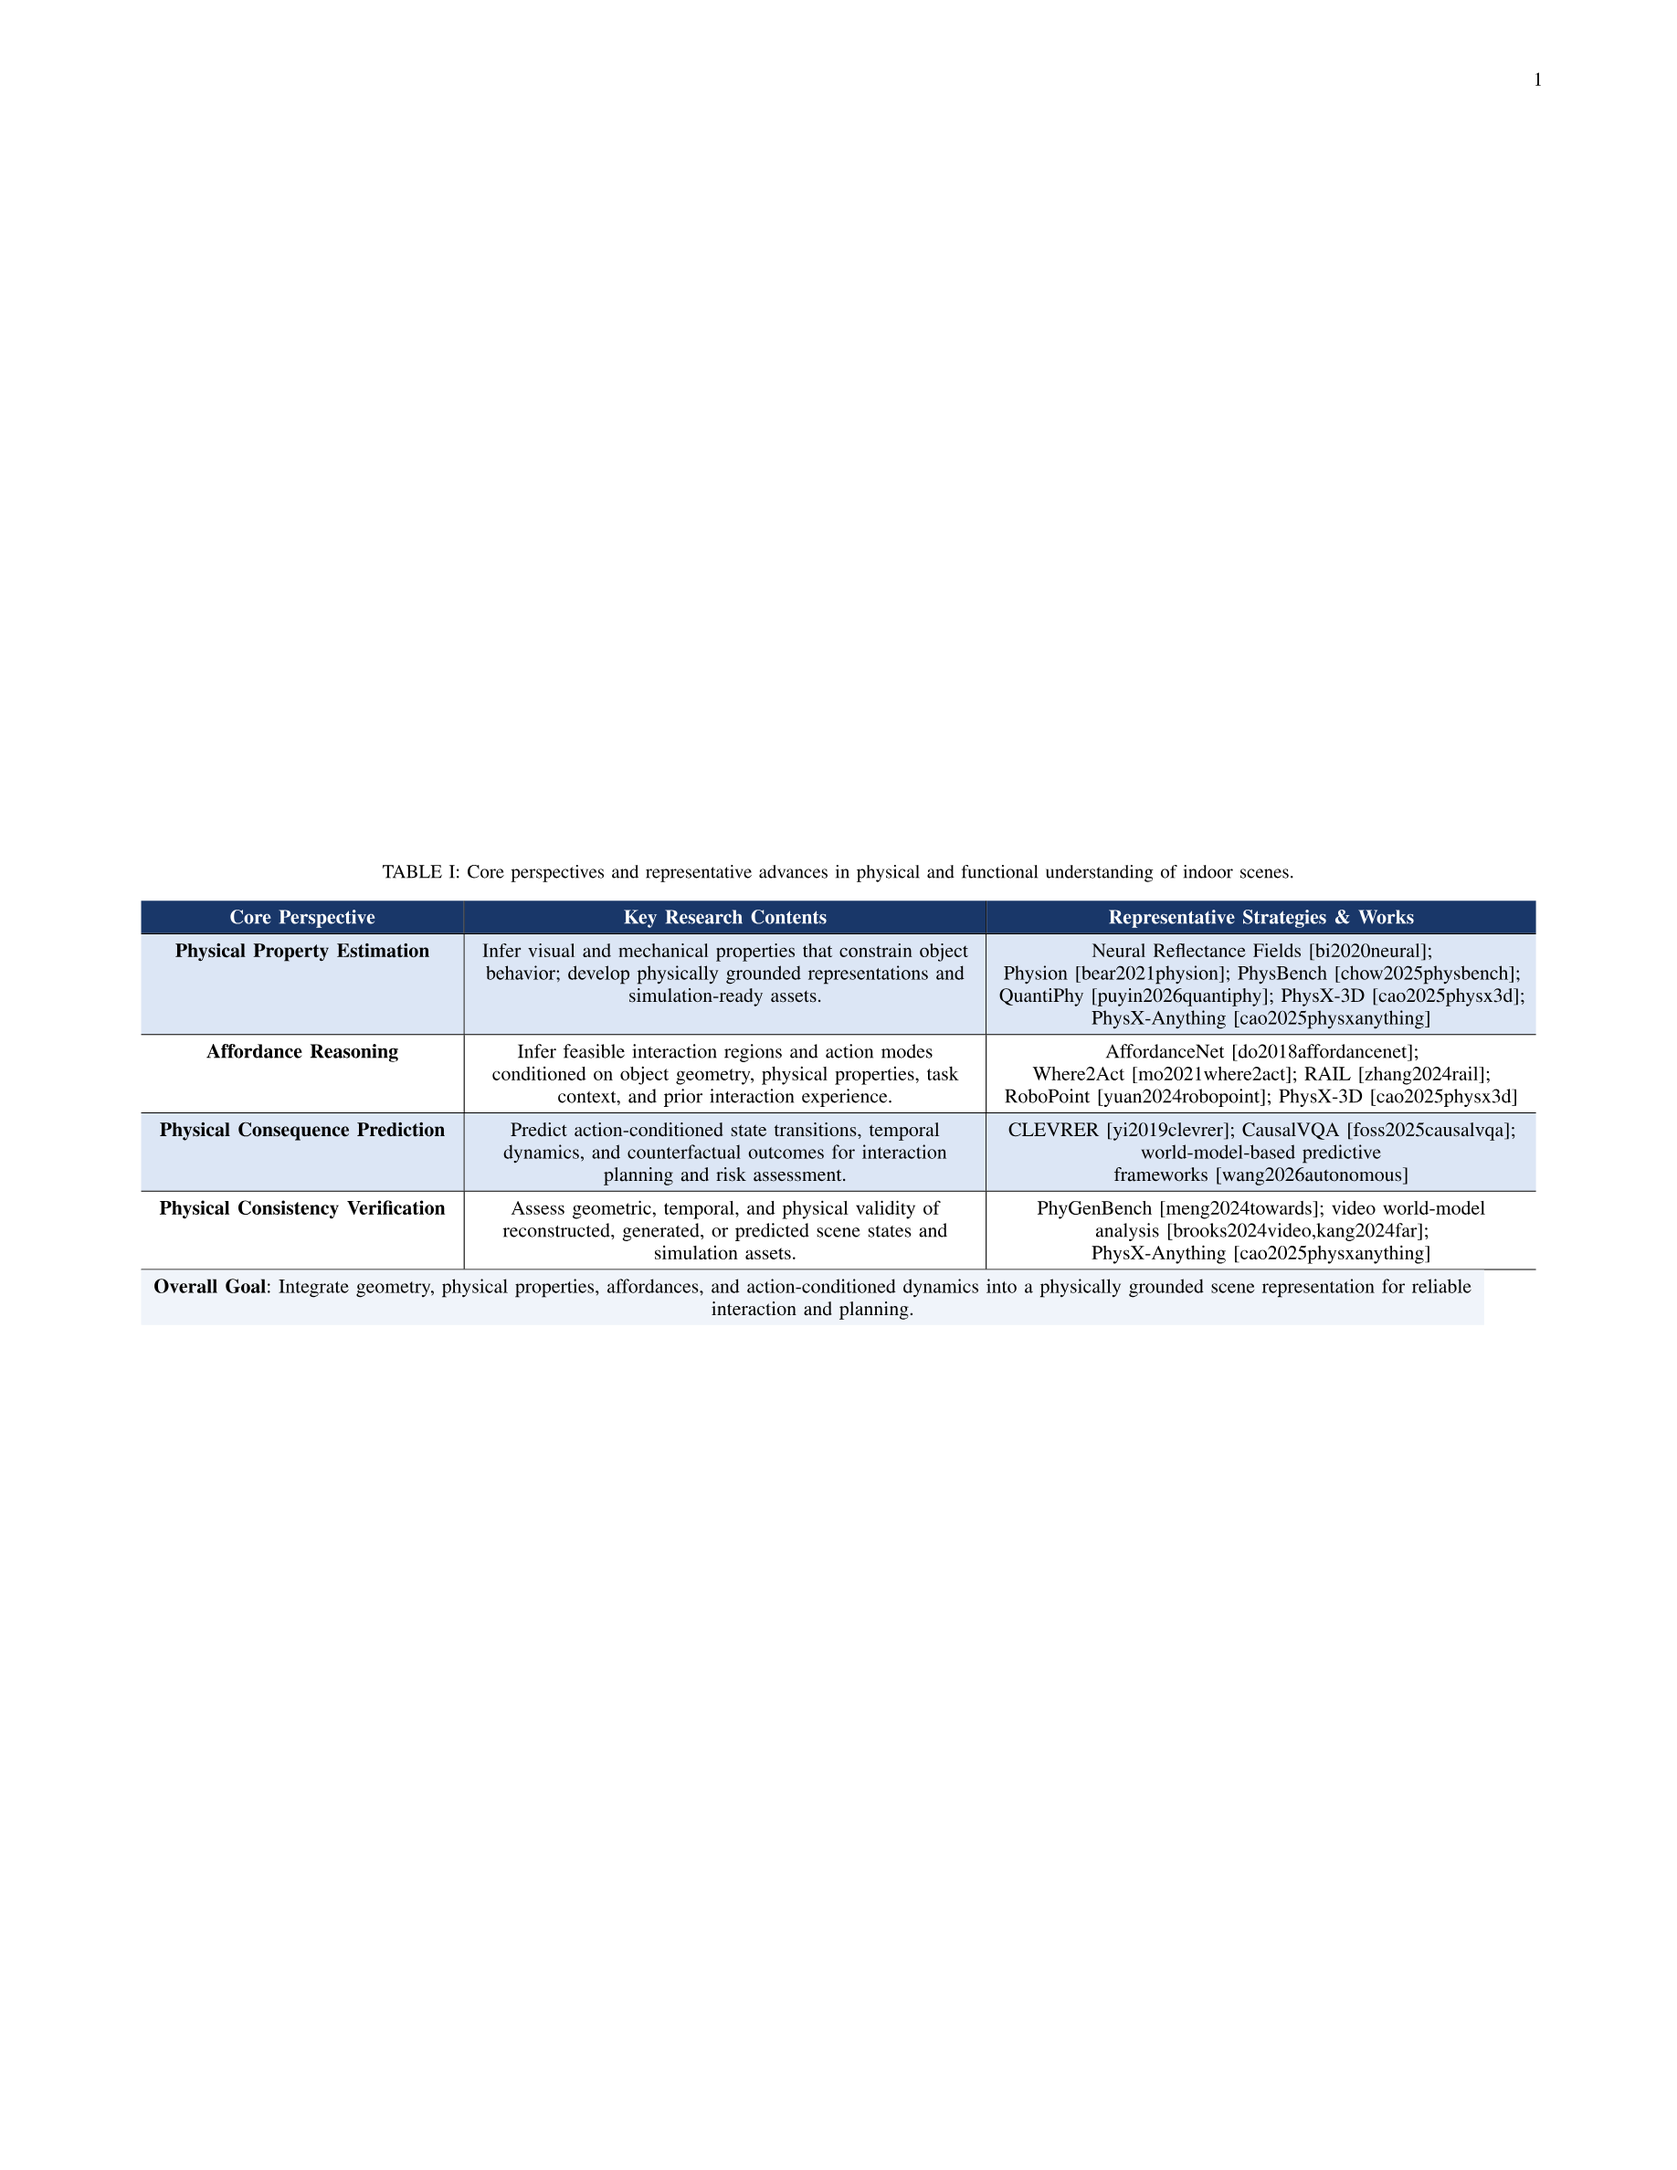
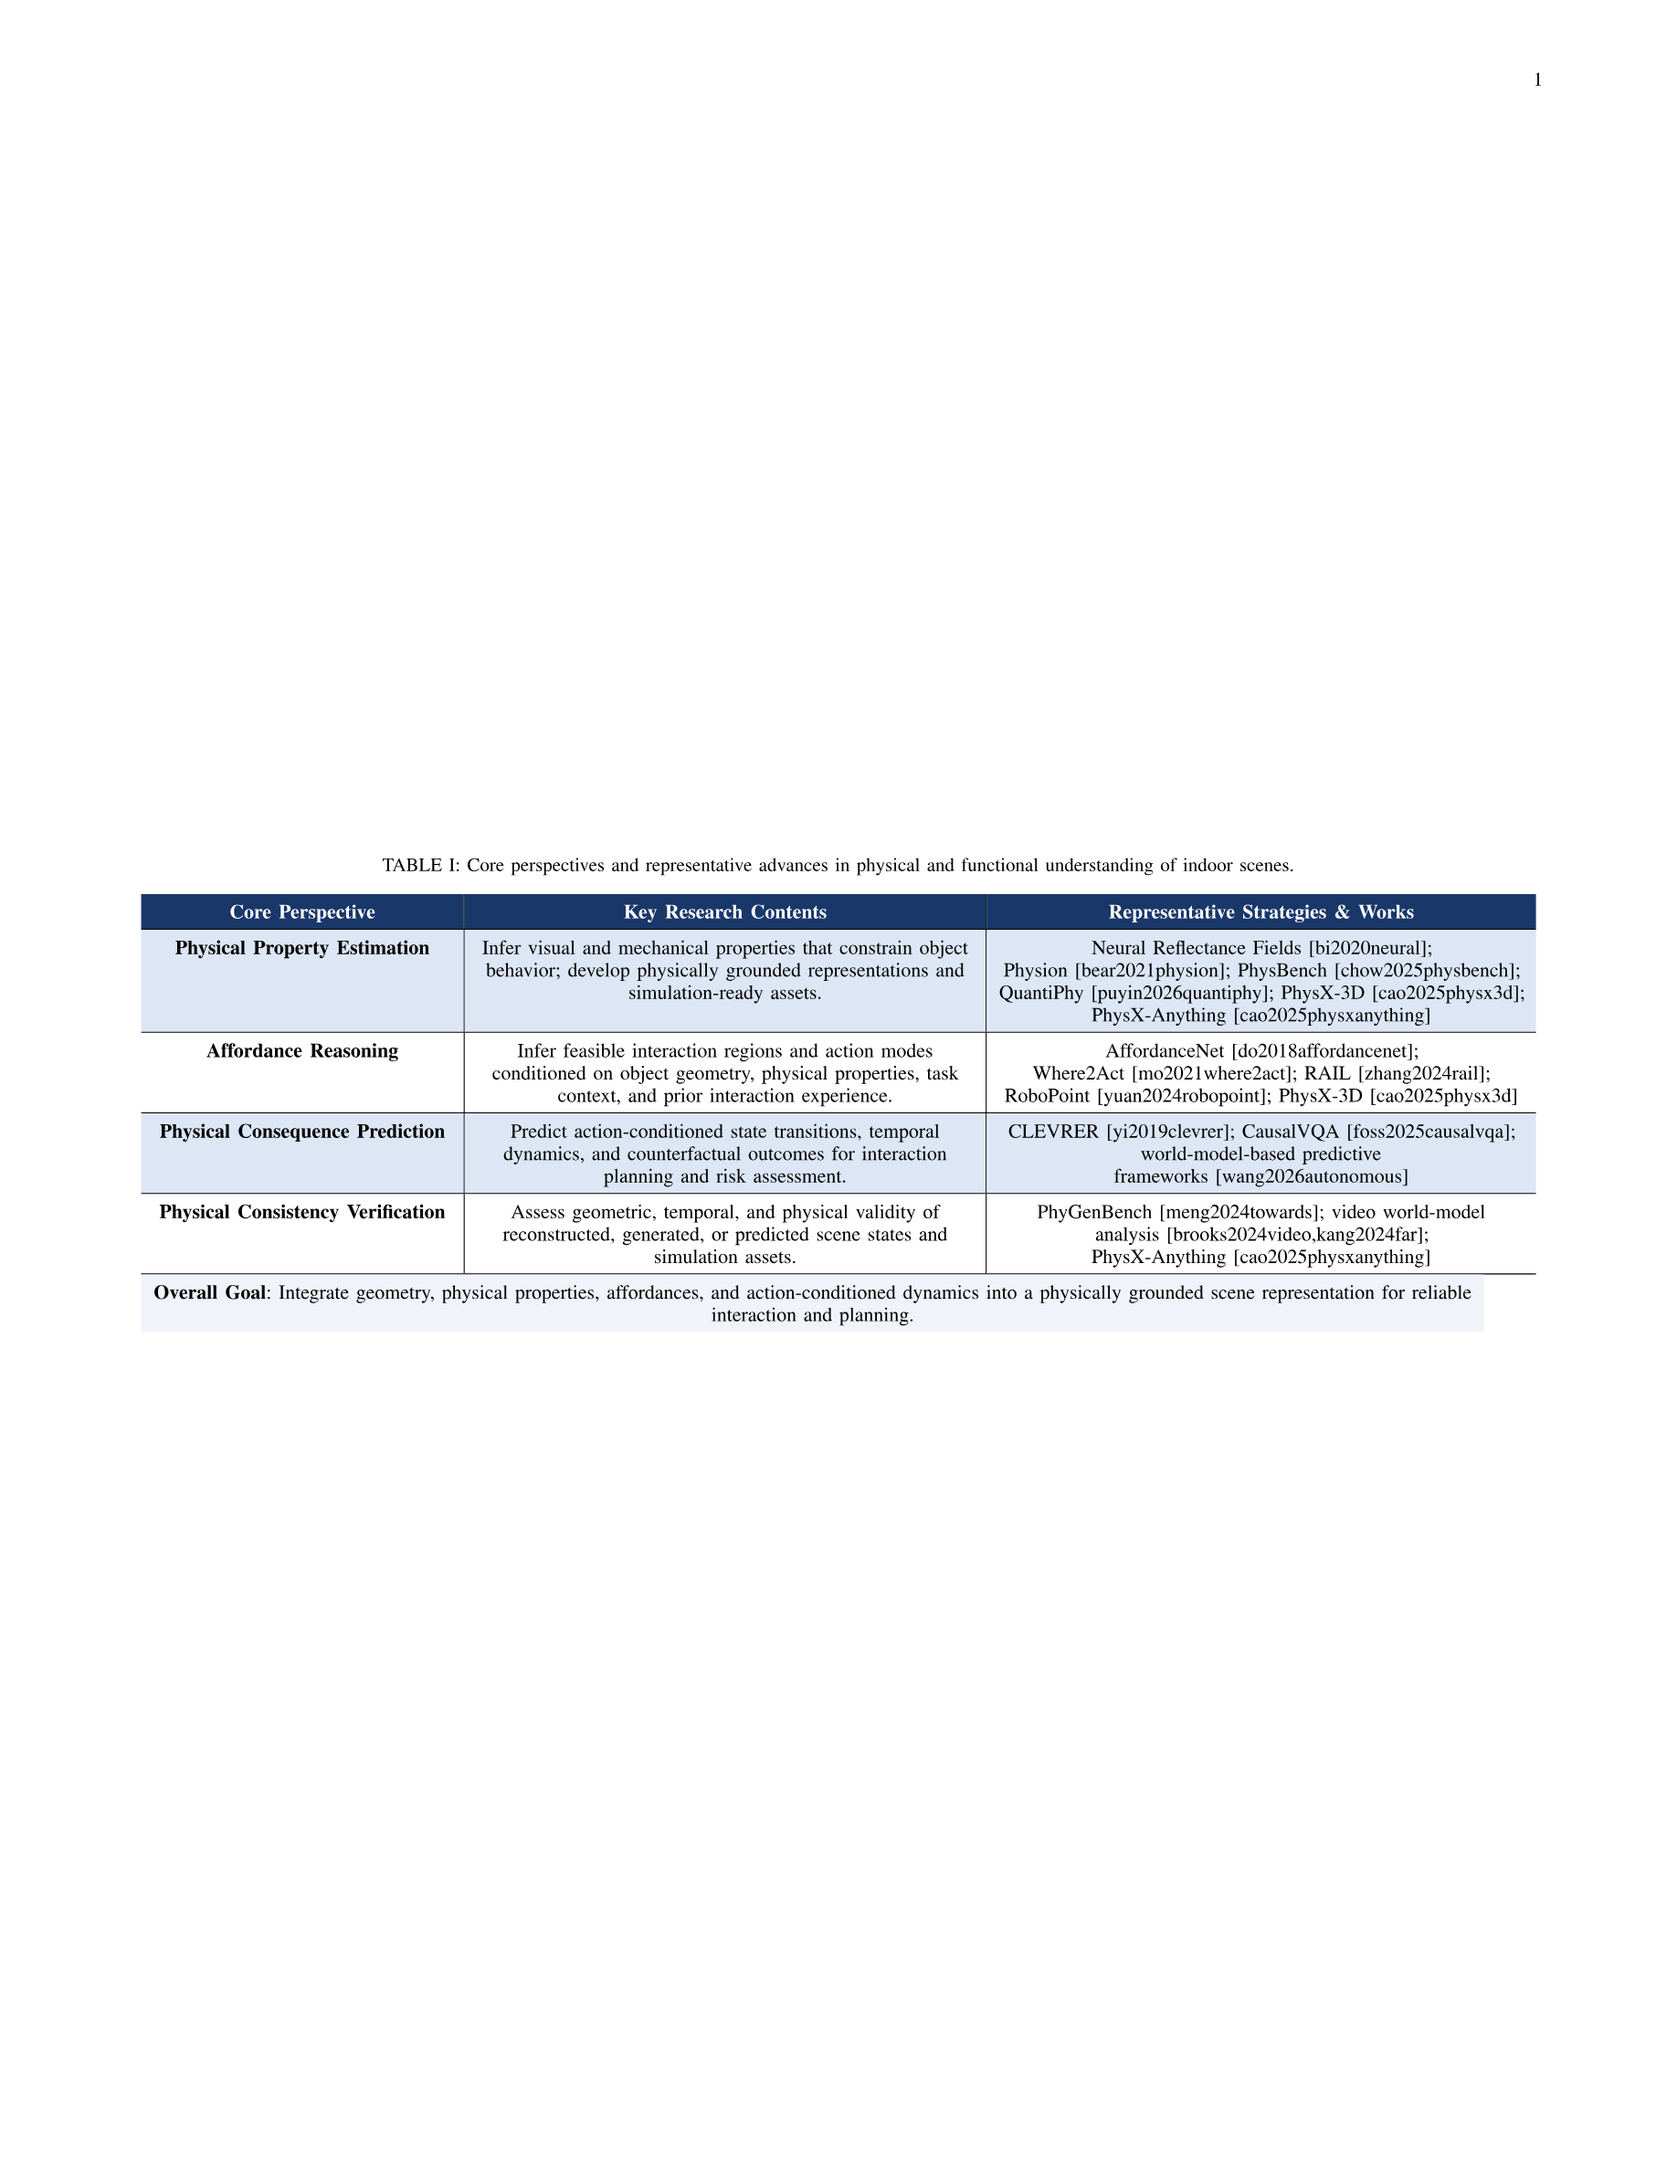
Display all paper tables with 3DGS-Survey style cards; fix table extraction (all 5)

Changed region(s): [[0.0931, 0.3737, 0.9003, 0.6229], [0.1242, 0.4672, 0.2484, 0.4983], [0.0931, 0.5918, 0.1552, 0.6229]]

diff --git a/src/App.jsx b/src/App.jsx
@@ -1,5 +1,6 @@
 import "./App.css";
 import { useState } from "react";
+import { TABLES } from "./tables-data";
 
 const PAPER_PDF = "/main.pdf";
 const ARXIV_URL = "https://arxiv.org/abs/0000.00000";
@@ -61,6 +62,23 @@ function SectionTitle({ children }) {
 
 function SectionIntro({ children }) {
   return <p className="content has-text-centered is-size-5 section-intro">{children}</p>;
+}
+
+function TableFigure({ index, src, caption }) {
+  return (
+    <figure className="paper-table">
+      <div className="paper-table__head">Table {index}</div>
+      <div className="paper-table__body">
+        <img src={src} alt={caption || `Table ${index}`} loading="lazy" />
+      </div>
+      {caption && (
+        <figcaption
+          className="paper-table__caption content is-size-6 has-text-left"
+          dangerouslySetInnerHTML={{ __html: caption }}
+        />
+      )}
+    </figure>
+  );
 }
 
 export default function App() {
@@ -309,6 +327,16 @@ export default function App() {
         />
 
         {/* Citation */}
+        {/* Comparison Tables */}
+        <SectionTitle>Comparison Tables</SectionTitle>
+        <SectionIntro>
+          We summarize representative datasets, evaluation metrics, and method
+          comparisons across the four capability layers of this survey.
+        </SectionIntro>
+        {TABLES.map((t, i) => (
+          <TableFigure key={i} index={i + 1} src={t.src} caption={t.caption} />
+        ))}
+
         <div className="card mt-6 cite-card" id="citation">
           <header className="card-header">
             <p className="card-header-title">Citation</p>

diff --git a/src/App.css b/src/App.css
@@ -109,6 +109,48 @@ body {
   text-align: justify;
 }
 
+/* ---------- Comparison tables (3DGS-Survey style) ---------- */
+.paper-table {
+  max-width: 980px;
+  margin: 1.5rem auto 2.5rem;
+  border: 1px solid #e5e7eb;
+  border-radius: 10px;
+  overflow: hidden;
+  background: #ffffff;
+  box-shadow: 0 1px 3px rgba(0, 0, 0, 0.06), 0 10px 30px rgba(0, 0, 0, 0.05);
+}
+
+.paper-table__head {
+  background: #f8fafc;
+  padding: 10px 16px;
+  font-size: 0.95rem;
+  font-weight: 600;
+  color: #1f2937;
+  border-bottom: 2px solid #e5e7eb;
+}
+
+.paper-table__body {
+  background: #ffffff;
+}
+
+.paper-table__body img {
+  display: block;
+  width: 100%;
+  height: auto;
+}
+
+.paper-table__caption {
+  padding: 10px 16px 14px;
+  font-size: 0.85rem;
+  line-height: 1.6;
+  color: #555;
+  border-top: 1px solid #f1f5f9;
+}
+
+.paper-table__caption b {
+  color: #111827;
+}
+
 /* ---------- PDF figures ---------- */
 .pdf-figure {
   position: relative;

diff --git a/src/tables-data.js b/src/tables-data.js
@@ -9,6 +9,10 @@ export const TABLES = [
     "caption": "<b>Evaluation metrics for actionable indoor scene understanding.</b> Metrics are organized along the four capability layers of this survey, covering rendering and geometric quality, semantic and relational accuracy, physical plausibility, and task-level success."
   },
   {
+    "src": "/figures/tables/table3.png",
+    "caption": "Comparison of Semantic Understanding Paradigms for Indoor Scene Reconstruction. Each paradigm targets a distinct level of structural abstraction, from pixel-wise labeling to language-grounded scene modeling."
+  },
+  {
     "src": "/figures/tables/table4.png",
     "caption": "Core perspectives and representative advances in physical and functional understanding of indoor scenes."
   },
